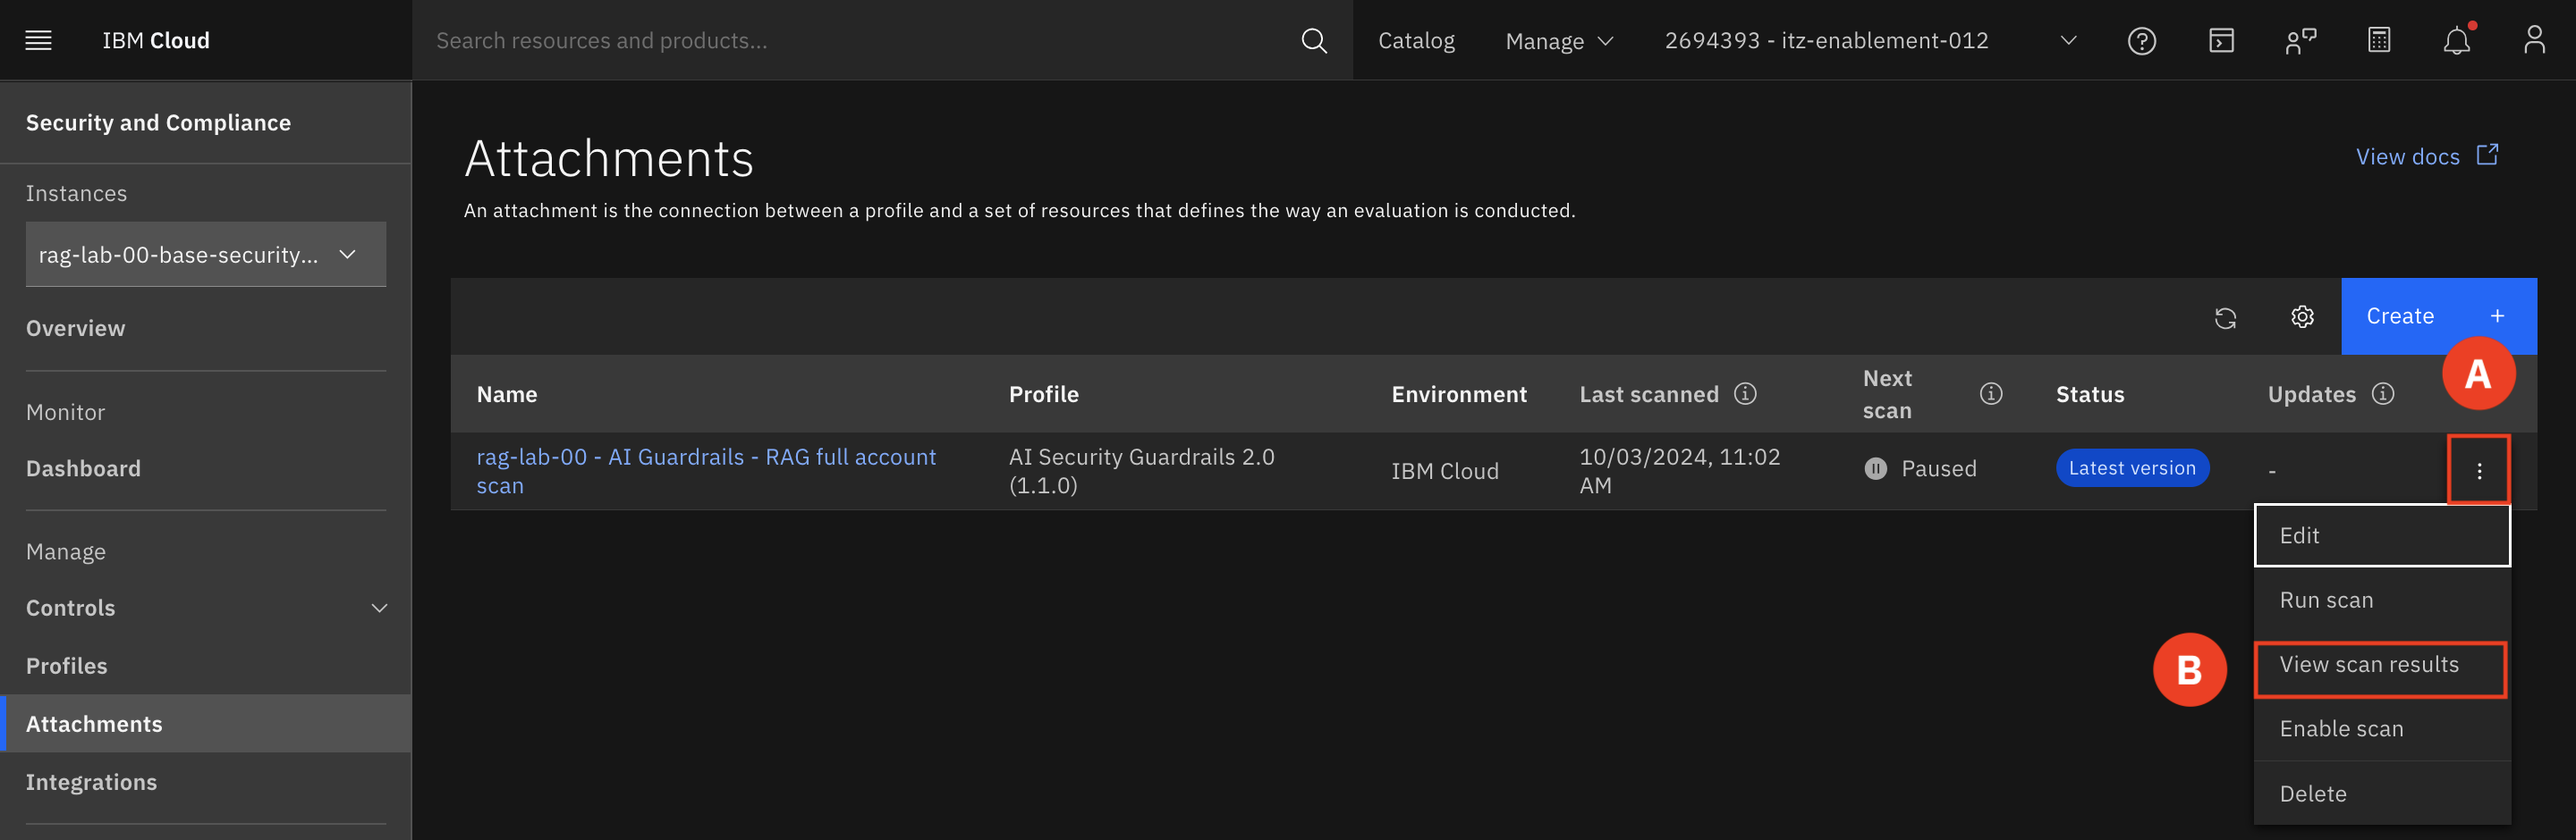
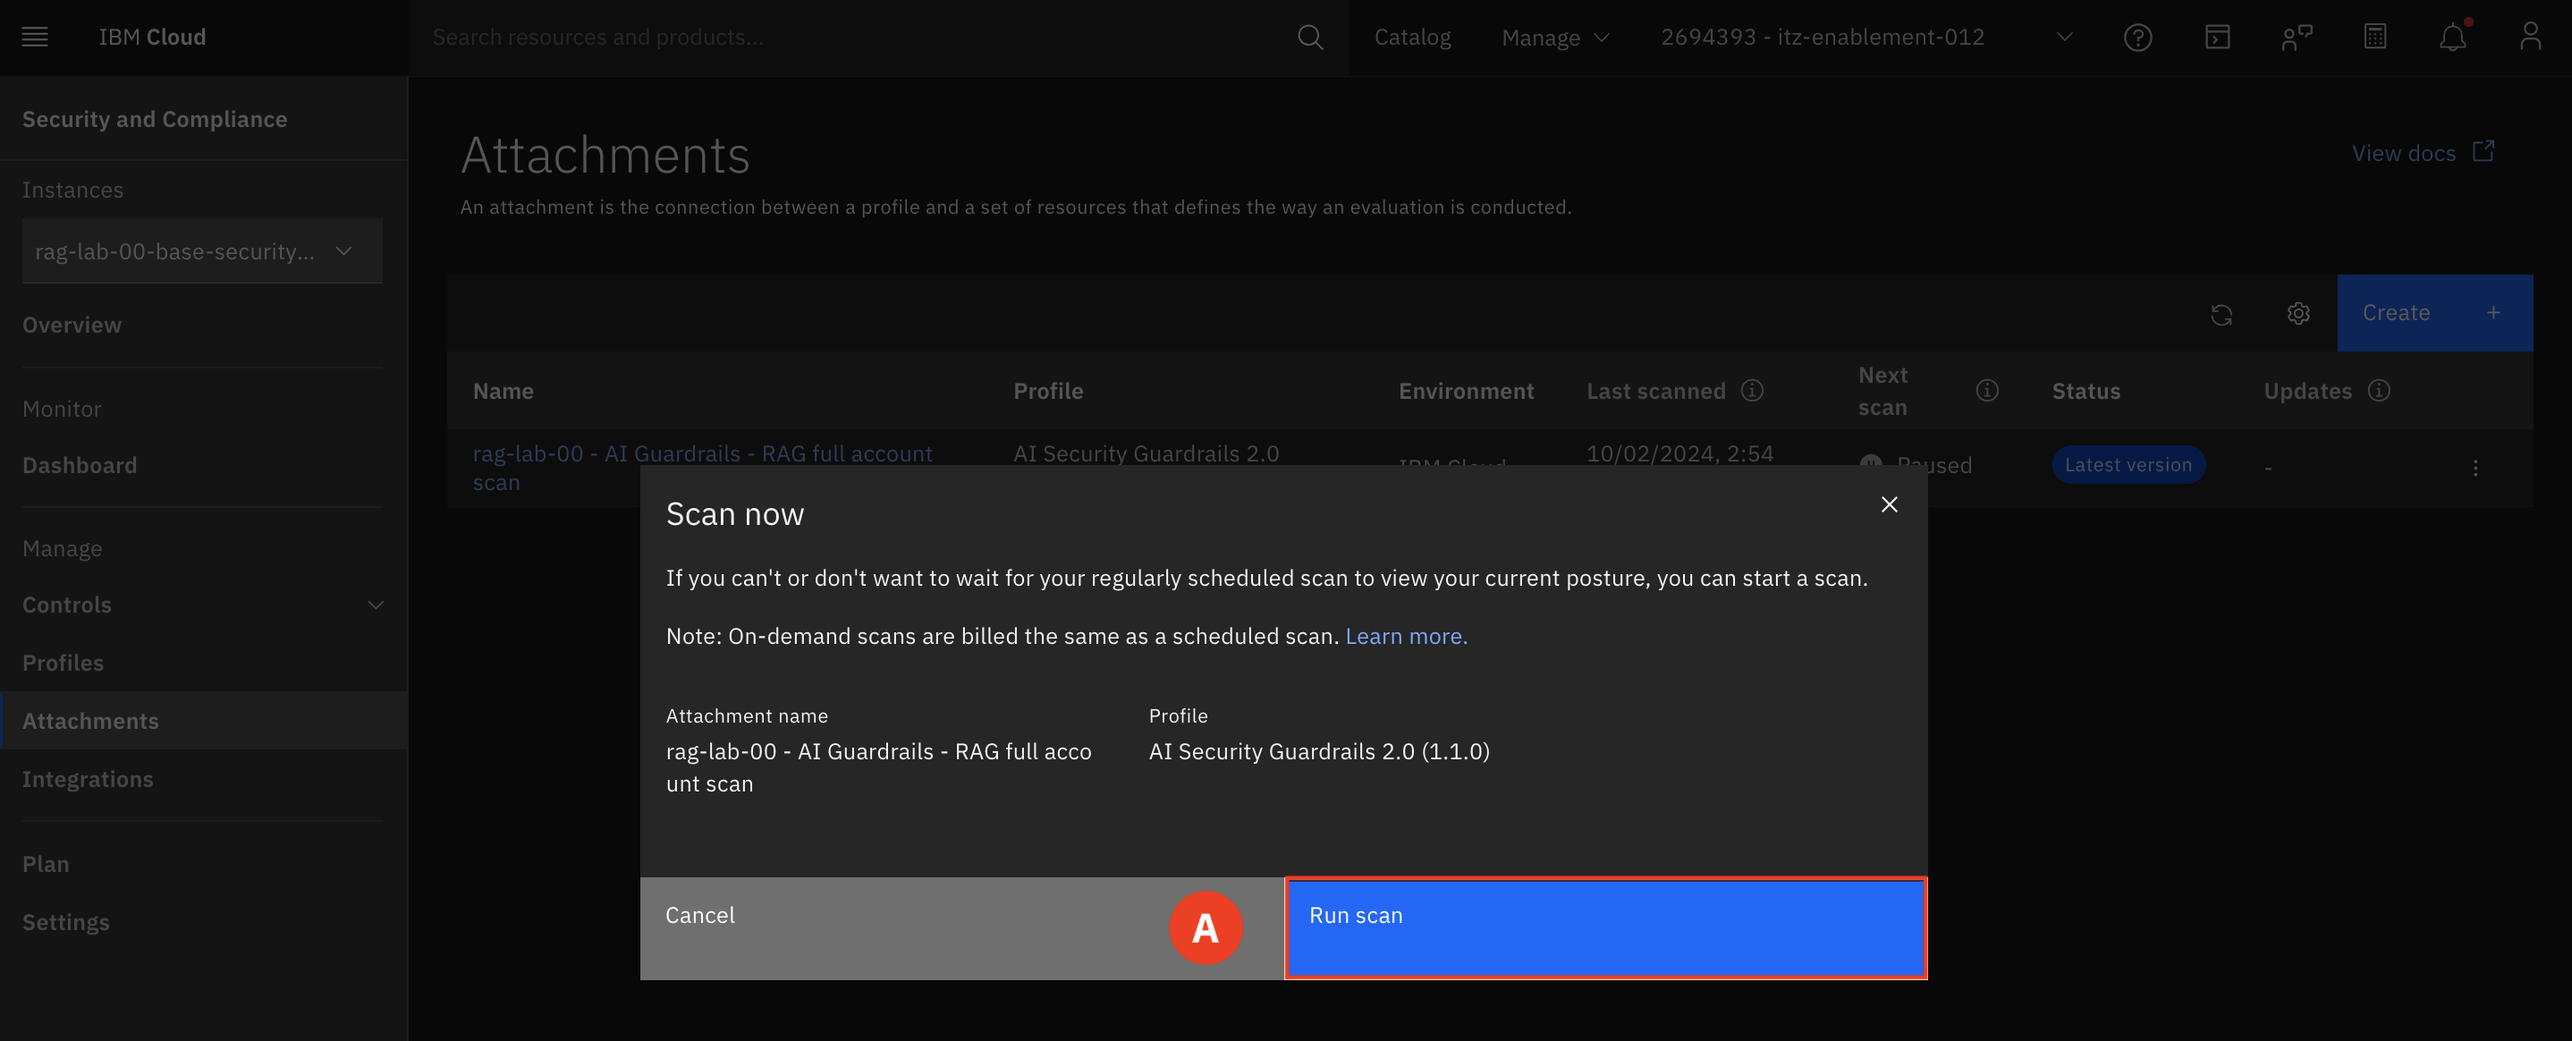
update screenshots

diff --git a/docs/lab/2_4-rescan.md b/docs/lab/2_4-rescan.md
@@ -16,12 +16,16 @@ Now that you have remediated the issue, lets go back and rerun the scan and obve
 
 4. Select **Run scan (A)**
 
-    ![alt text](../images/2.4.44-n.png)
+    ![alt text](../images/2.4.4-n.png)
 
-5. Select the most recent scan **(A)**
+5. Once the scan has finished running,  select the **triple dot (A)** and select **View scan results(B)**.
 
     ![alt text](../images/2.4.5-n.png)
 
-6. Observe the changes in the overall compliance score.
+6. Select the most recent scan **(A)**
 
     ![alt text](../images/2.4.6-n.png)
+
+7. Observe the changes in the overall compliance score.
+
+    ![alt text](../images/2.4.7-n.png)
